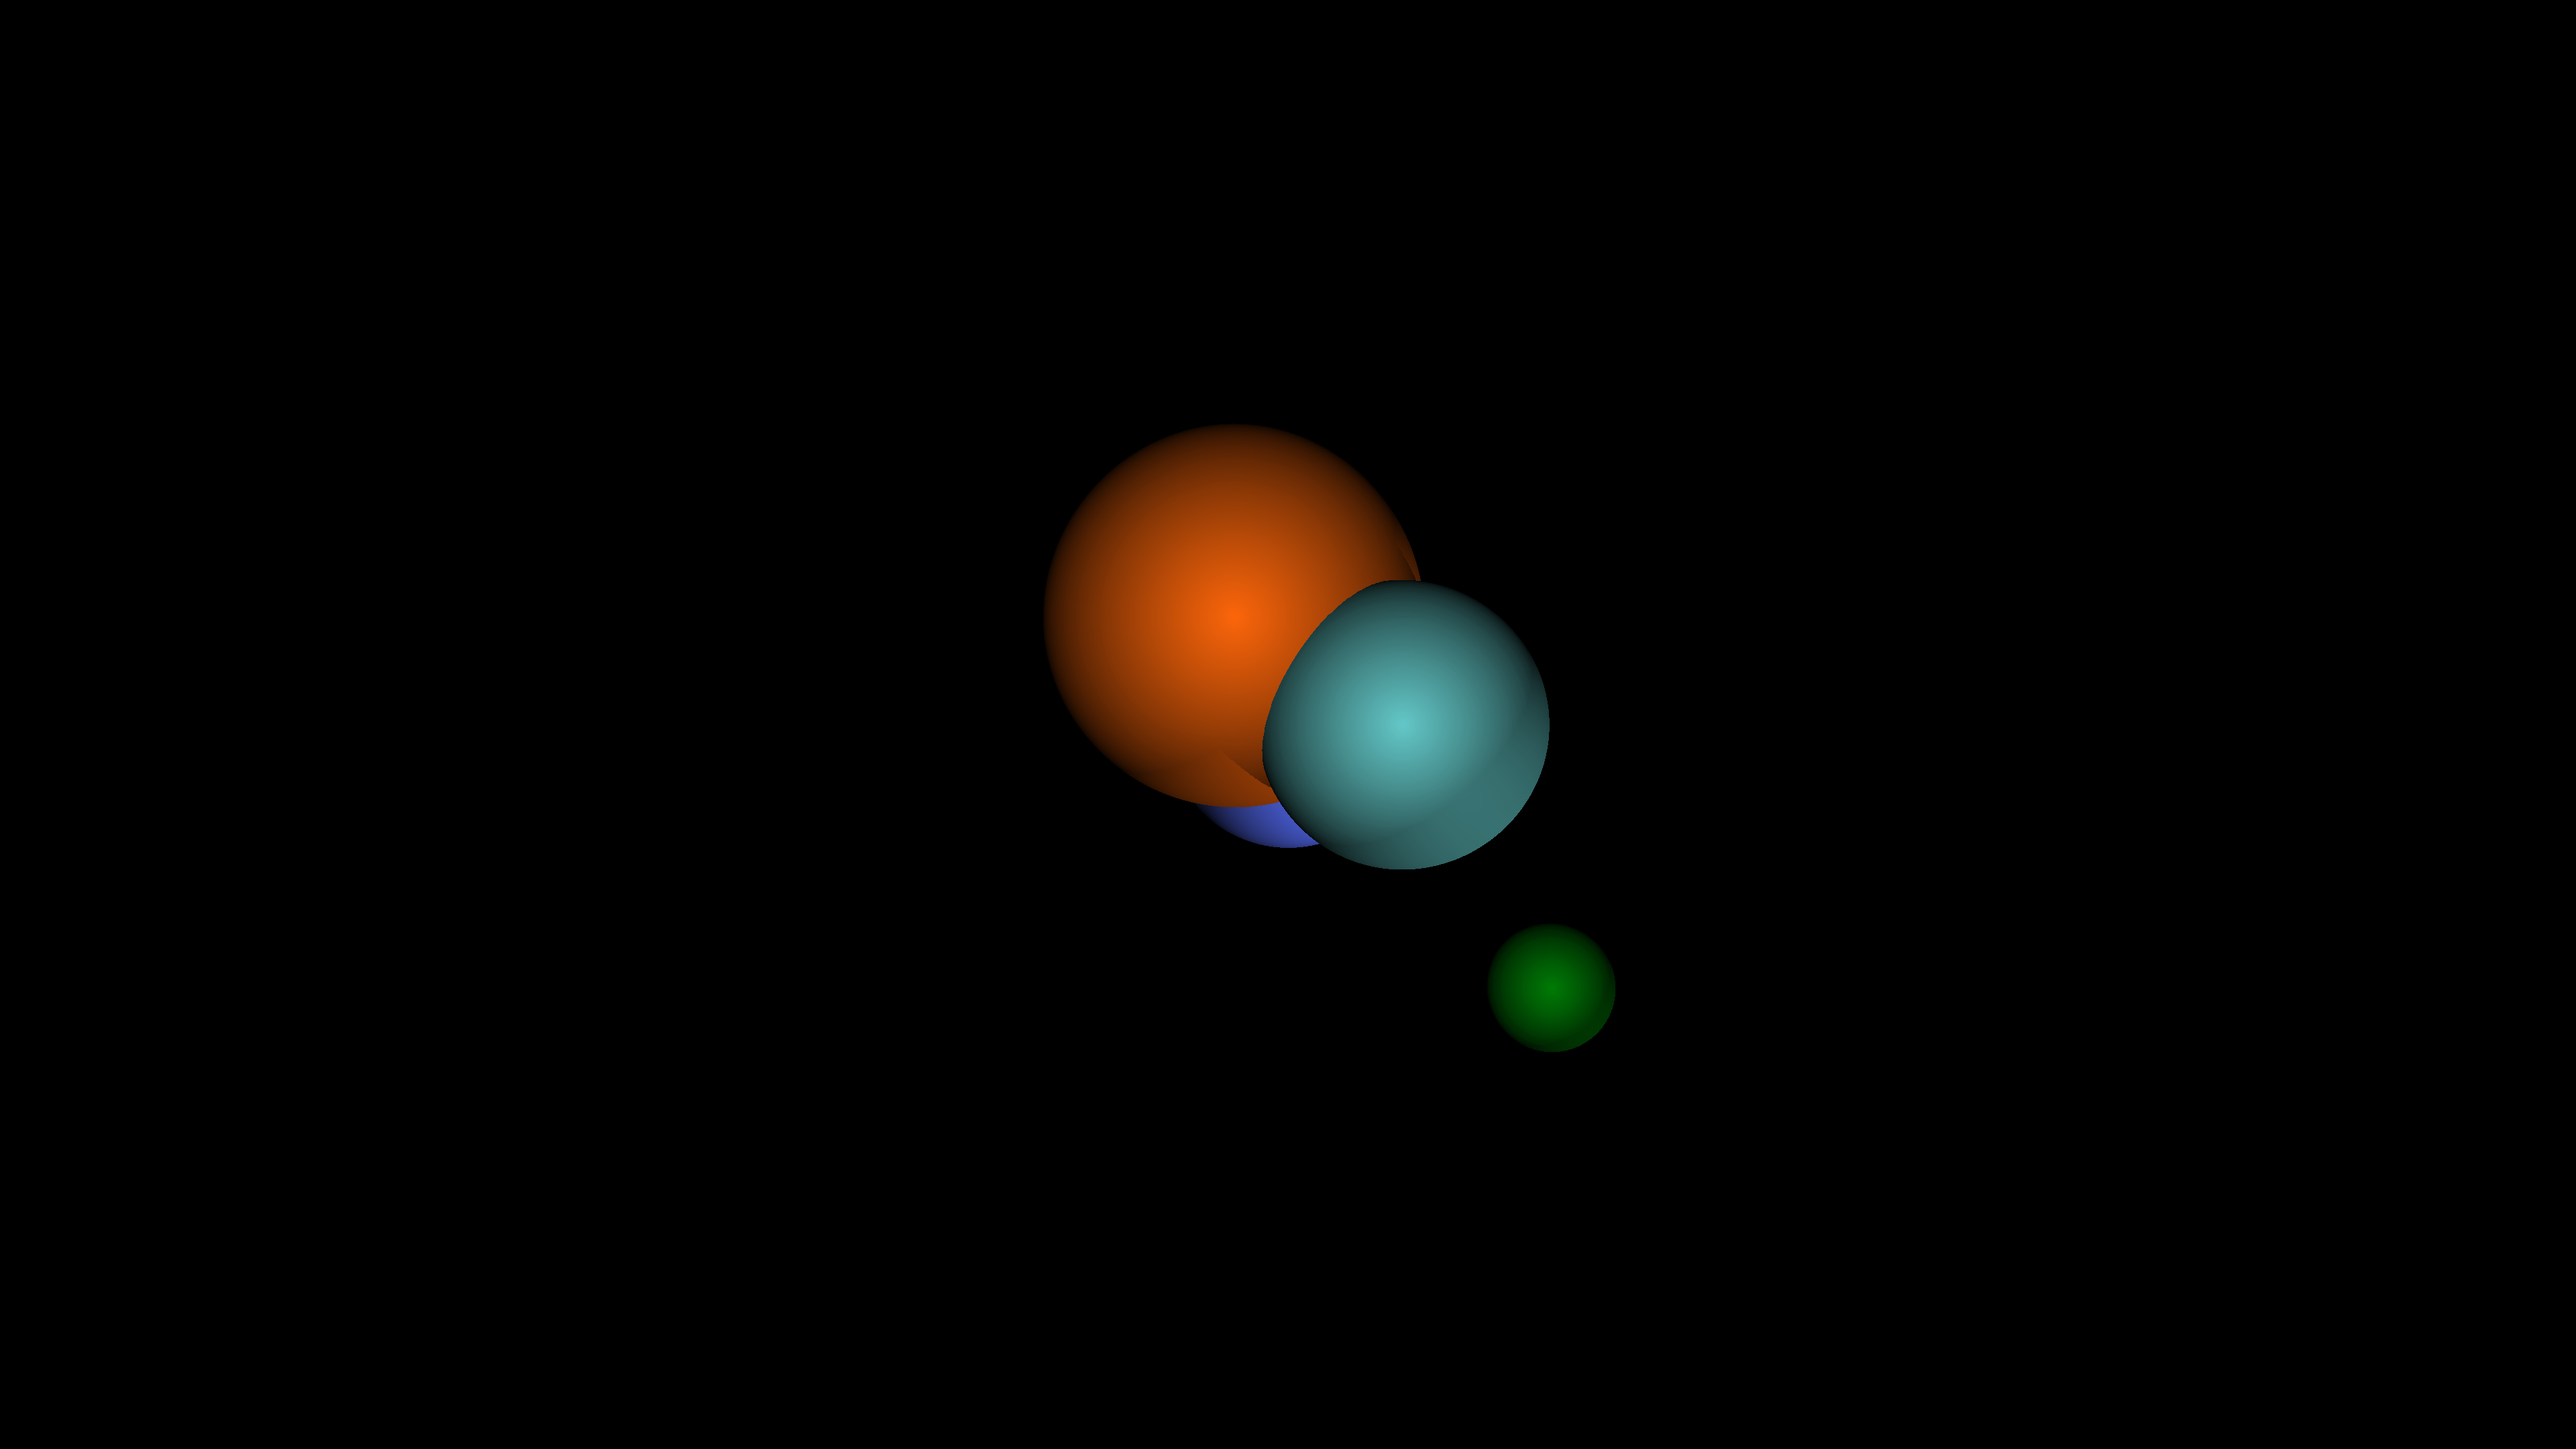
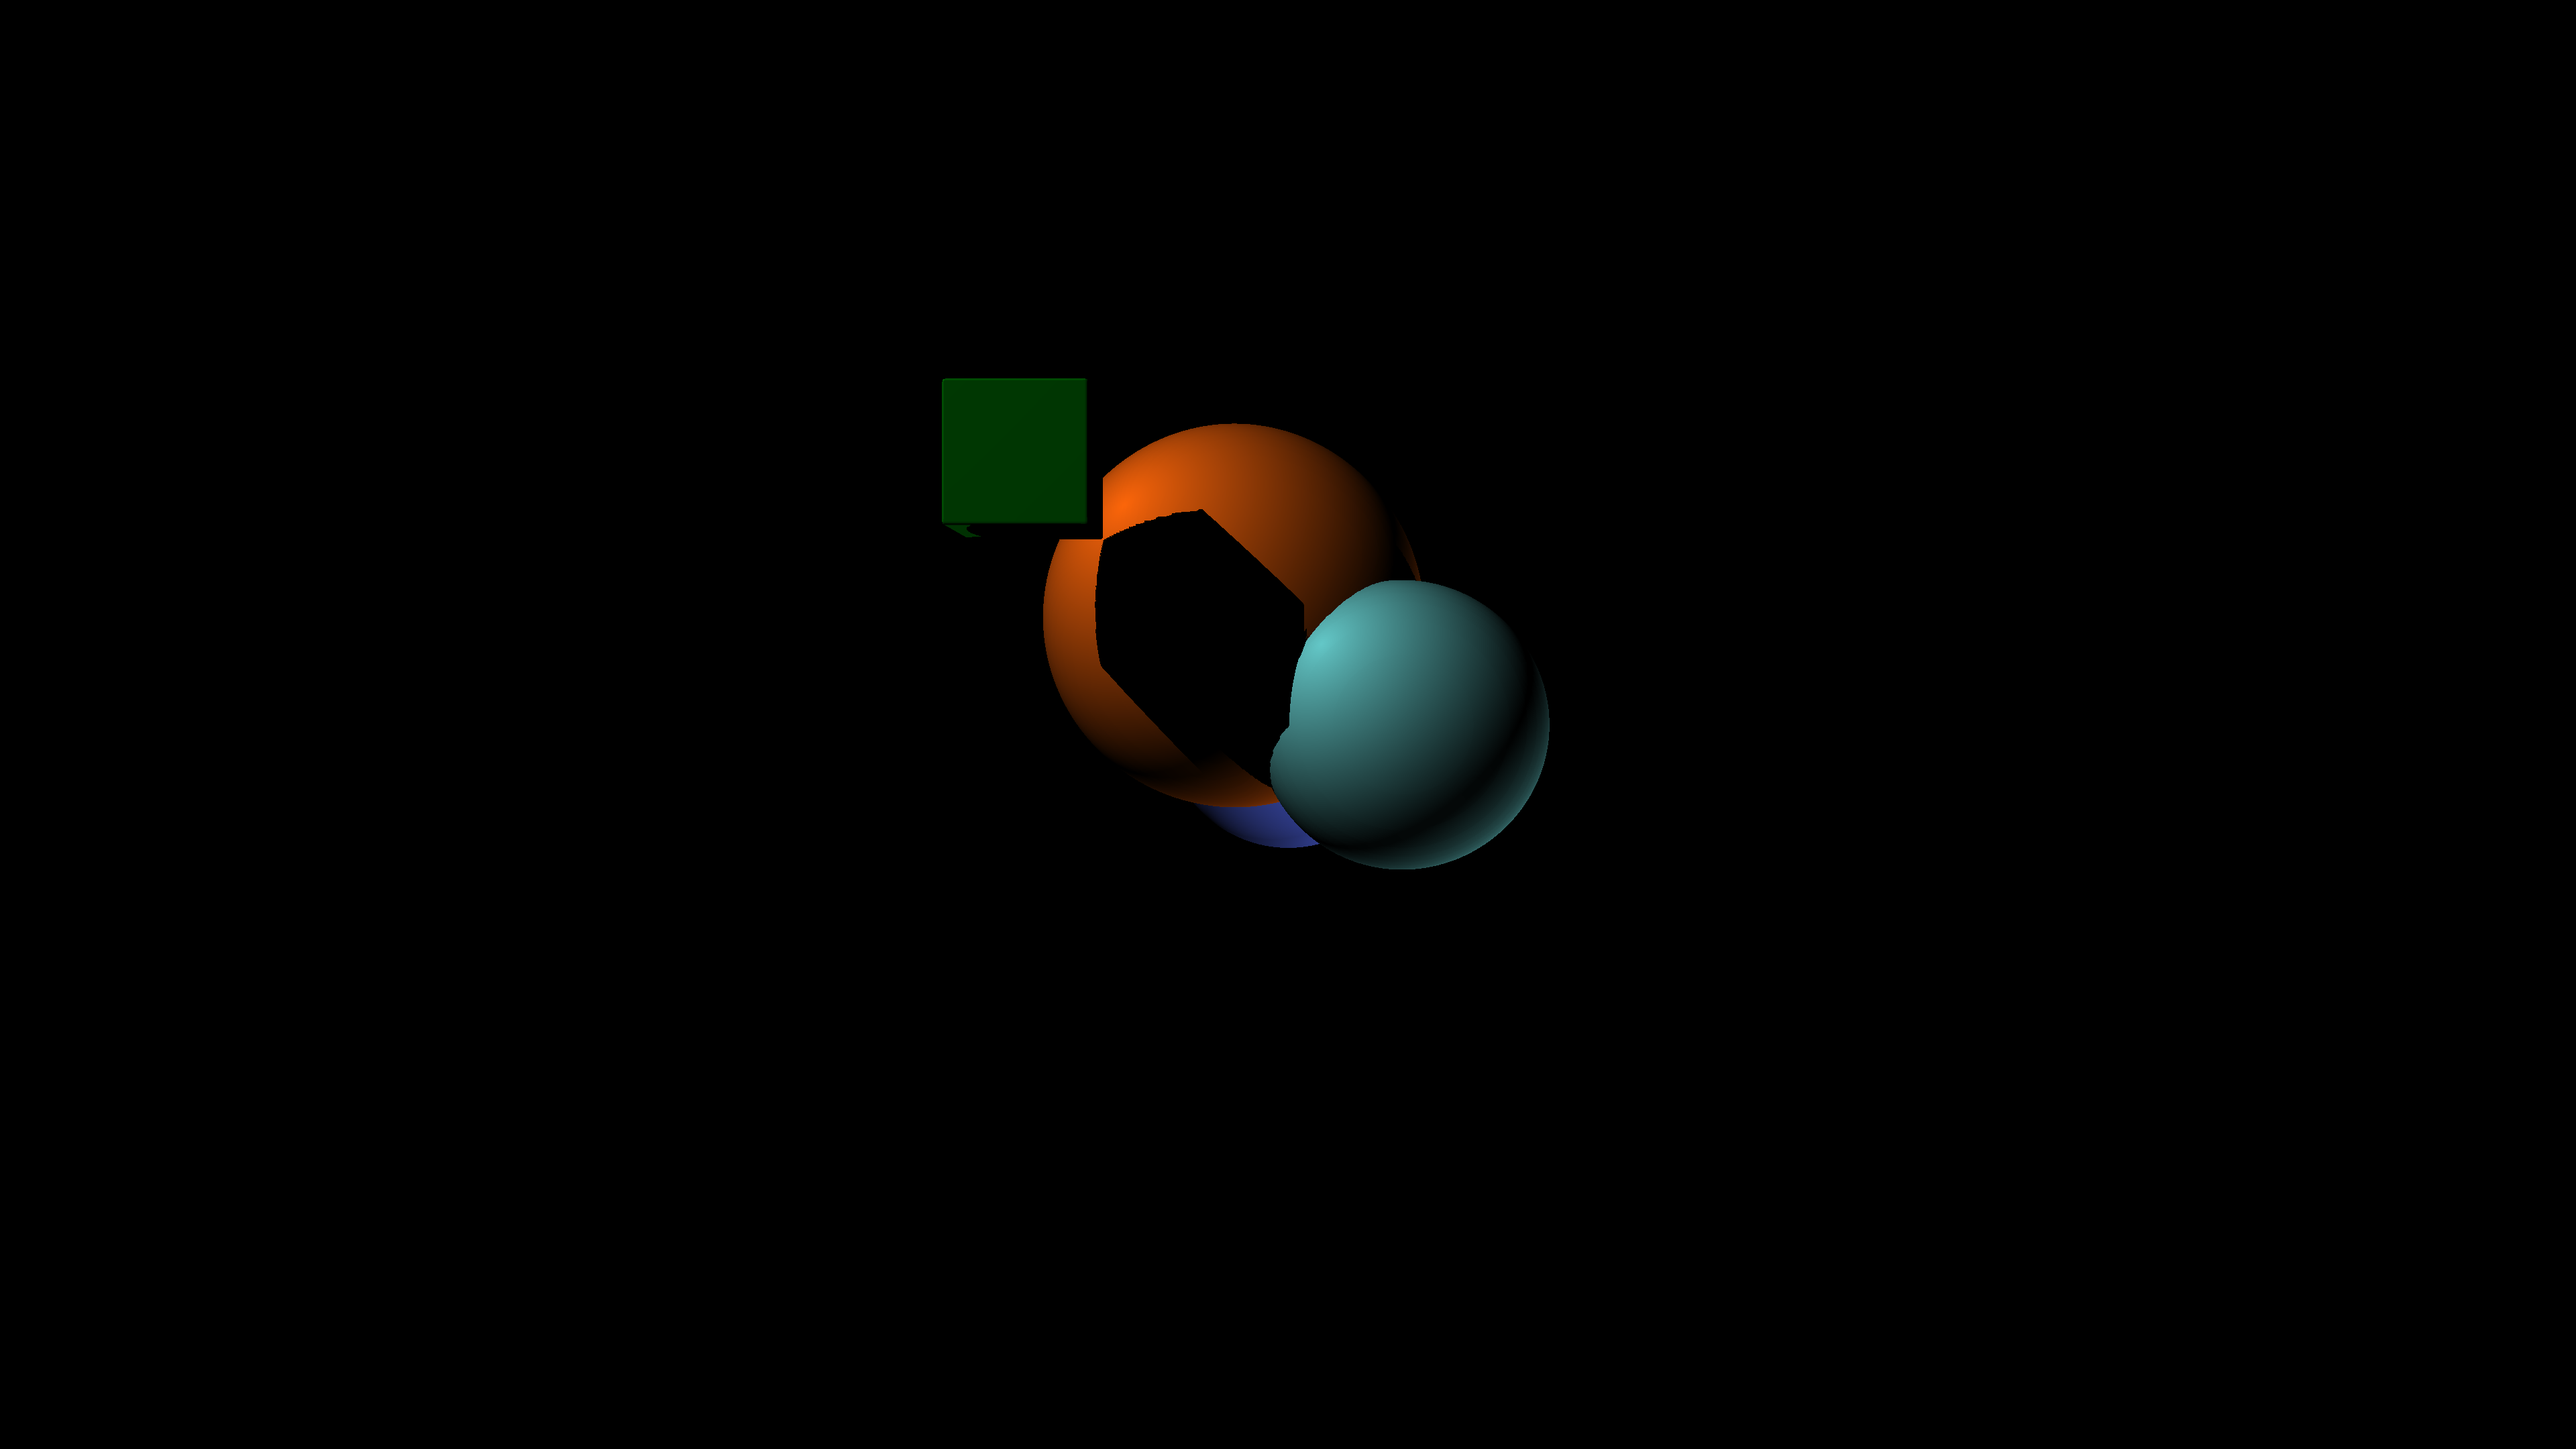
added boxes drawable

Changed region(s): [[0.3438, 0.2481, 0.625, 0.6204], [0.5625, 0.6204, 0.625, 0.7444]]

diff --git a/pkg/renderer/renderer.go b/pkg/renderer/renderer.go
@@ -198,14 +198,15 @@ func RenderDefault(workers int) {
 	drawable1 := drawables.NewNamedSphere("d1", utils.Vec3{X: 6, Y: 2, Z: 0}, 2.5, color.RGBA{100, 200, 200, 255})
 	drawable2 := drawables.NewNamedSphere("d2", utils.Vec3{X: 8, Y: -1, Z: -2}, 3.5, color.RGBA{252, 102, 11, 255})
 	drawable3 := drawables.NewNamedSphere("d3", utils.Vec3{X: 40, Y: 0, Z: 0}, 4.5, color.RGBA{76, 96, 218, 255})
-	drawable4 := drawables.NewNamedSphere("d4", utils.Vec3{X: 2, Y: 4, Z: 4}, 0.9, color.RGBA{1, 123, 6, 255})
+	// drawable4 := drawables.NewNamedSphere("d4", utils.Vec3{X: 2, Y: 4, Z: 4}, 1, color.RGBA{1, 123, 6, 255})
+	drawable4 := drawables.NewNamedCube("b1", utils.Vec3{X: 2, Y: -4, Z: -4}, 1, color.RGBA{1, 123, 6, 255})
 	// cam := NewCameraFOV(utils.Vec3{X: -25, Y: 0, Z: 0}, 1920, 1080, 45) // 1080p
 	cam := NewCameraFOV(utils.Vec3{X: -25, Y: 0, Z: 0}, 3840, 2160, 45) // 4k
 	// cam := NewCameraFOV(utils.Vec3{X: -10, Y: 0, Z: 0}, 7680, 4320, 45) // 8k
 	// cam := NewCameraFOV(utils.Vec3{X: -10, Y: 0, Z: 0}, 15360, 8640, 45) // 16k
 	// cam := NewCameraFOV(utils.Vec3{X: -25, Y: 0, Z: 0}, 30720, 17280, 45) // 32k
 
-	light1 := drawables.NewNamedSphere("l1", utils.Vec3{X: -30, Y: 0, Z: 0}, 1, color.RGBA{0, 0, 0, 255})
+	light1 := drawables.NewNamedSphere("l1", utils.Vec3{X: -30, Y: -30, Z: -30}, 1, color.RGBA{0, 0, 0, 255})
 	light2 := drawables.NewNamedSphere("l2", utils.Vec3{X: 30, Y: 30, Z: 30}, 1, color.RGBA{0, 0, 0, 255})
 
 	// cam := NewCamera(utils.Vec3{X: -1000, Y: 0, Z: 0}, 3600, 2400)

diff --git a/pkg/drawables/box_drawable.go b/pkg/drawables/box_drawable.go
@@ -1,0 +1,53 @@
+package drawables
+
+import (
+	"fmt"
+	"image/color"
+	"math"
+	"math/rand"
+
+	"solidsilver.dev/go-ray-marching/pkg/utils"
+)
+
+type Box struct {
+	center utils.Vec3
+	bounds utils.Vec3
+	color  color.RGBA
+	id     string
+}
+
+func NewBox(pos, bounds utils.Vec3, color color.RGBA) Box {
+	idNum := rand.Intn(1000)
+	id := fmt.Sprintf("%s-%d", "sph", idNum)
+	return Box{pos, bounds, color, id}
+}
+
+func NewNamedBox(id string, pos, bounds utils.Vec3, color color.RGBA) Box {
+	return Box{pos, bounds, color, id}
+}
+
+func NewCube(pos utils.Vec3, dim float64, color color.RGBA) Box {
+	return NewBox(pos, utils.Vec3Size(dim), color)
+}
+
+func NewNamedCube(id string, pos utils.Vec3, dim float64, color color.RGBA) Box {
+	return NewNamedBox(id, pos, utils.Vec3Size(dim), color)
+}
+
+func (b Box) Dist(pt utils.Vec3) float64 {
+	shiftPt := *utils.NewSub(pt, b.center)
+	q := utils.NewSub(utils.Abs(shiftPt), b.bounds)
+	return utils.NewNorm(utils.Vec3Max(*q, utils.Vec3Zero())) + math.Min(utils.Max(q.X, q.Y, q.Z), 0.0)
+}
+
+func (b Box) Color() color.RGBA {
+	return b.color
+}
+
+func (b Box) Pos() utils.Vec3 {
+	return b.center
+}
+
+func (b Box) ID() string {
+	return b.id
+}

diff --git a/pkg/utils/vector3.go b/pkg/utils/vector3.go
@@ -14,6 +14,10 @@ func NewVec(x, y, z float64) *Vec3 {
 	return vec
 }
 
+func Vec3Size(n float64) Vec3 {
+	return Vec3{n, n, n}
+}
+
 func Vec3Zero() Vec3 {
 	return Vec3{0, 0, 0}
 }
@@ -32,6 +36,18 @@ func Vec3UnitZ() Vec3 {
 
 func (v *Vec3) Norm() float64 {
 	return math.Sqrt(v.X*v.X + v.Y*v.Y + v.Z*v.Z)
+}
+
+func NewNorm(v Vec3) float64 {
+	return math.Sqrt(v.X*v.X + v.Y*v.Y + v.Z*v.Z)
+}
+
+func Vec3Max(v1, v2 Vec3) Vec3 {
+	return Vec3{
+		math.Max(v1.X, v2.X),
+		math.Max(v1.Y, v2.Y),
+		math.Max(v1.Z, v2.Z),
+	}
 }
 
 // func Vec3Len(v Vec3) float64 {
@@ -59,6 +75,14 @@ Adds v1 to v2 and returns the result as a newly allocated vector.
 func NewAdd(v1, v2 Vec3) *Vec3 {
 	v := new(Vec3)
 	return v.Add(v1, v2)
+}
+
+func NewAdd2(v1, v2 Vec3) Vec3 {
+	return Vec3{
+		v1.X + v2.X,
+		v1.Y + v2.Y,
+		v1.Z + v2.Z,
+	}
 }
 
 func (v *Vec3) Plus(num float64) *Vec3 {
@@ -165,4 +189,12 @@ func DirFromPos(p1 Vec3, p2 Vec3) Vec3 {
 	dir.Sub(p1, p2)
 	dir.Unit()
 	return *dir
+}
+
+func Abs(p Vec3) Vec3 {
+	return Vec3{
+		math.Abs(p.X),
+		math.Abs(p.Y),
+		math.Abs(p.Z),
+	}
 }

diff --git a/pkg/renderer/ray_march.go b/pkg/renderer/ray_march.go
@@ -22,7 +22,6 @@ func RayMarchColor(ray *Ray, scene *Scene, rnd float64) color.RGBA {
 	totalMin := MAXIMUM_TRACE_DISTANCE
 	var closest drawables.Drawable
 	steps := 0
-	// lastMin := MAXIMUM_TRACE_DISTANCE
 
 	// if curPos.Equals(utils.Vec3{X: 0, Y: -5, Z: -29}) {
 	// 	print("hello")
@@ -114,7 +113,6 @@ func RayMarch(ray *Ray, scene *Scene) MarchResult {
 			retPos := utils.NewCopy(curPos)
 			retPos.Sub(*retPos, *utils.NewCopy(ray.dir).Mult(MINIMUM_HIT_DISTANCE))
 			return MarchResult{closest, *retPos, steps, totalDistTraveled}
-			// return MarchResult{closest, curPos, steps, totalDistTraveled}
 		}
 		distP := minDist * (1 - MINIMUM_HIT_DISTANCE)
 

diff --git a/pkg/utils/math.go b/pkg/utils/math.go
@@ -22,6 +22,12 @@ func SigLocal(dist float64, step int, smooth float64) float64 {
 	return Sig(dist, 1, b, stepF, stepF)
 }
 
+func Max(f1, f2, f3 float64) float64 {
+	return math.Max(f1, math.Max(f2, f3))
+}
+
+// func maxN()
+
 // func Min[T constraints.Ordered](a, b T) T {
 // 	if a < b {
 // 		return a
